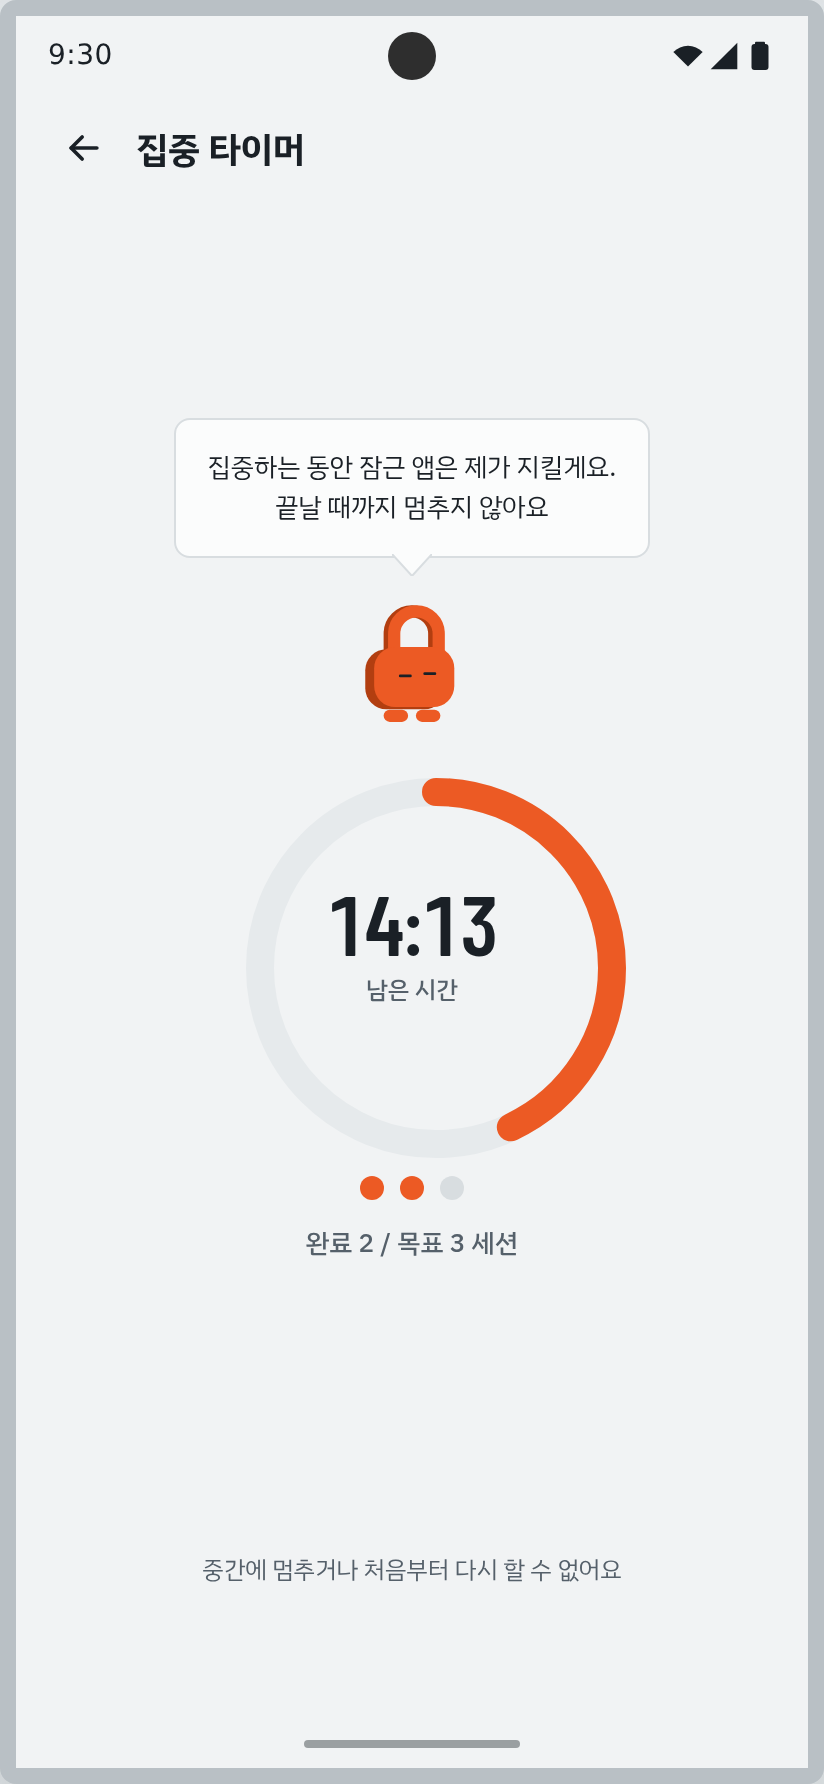
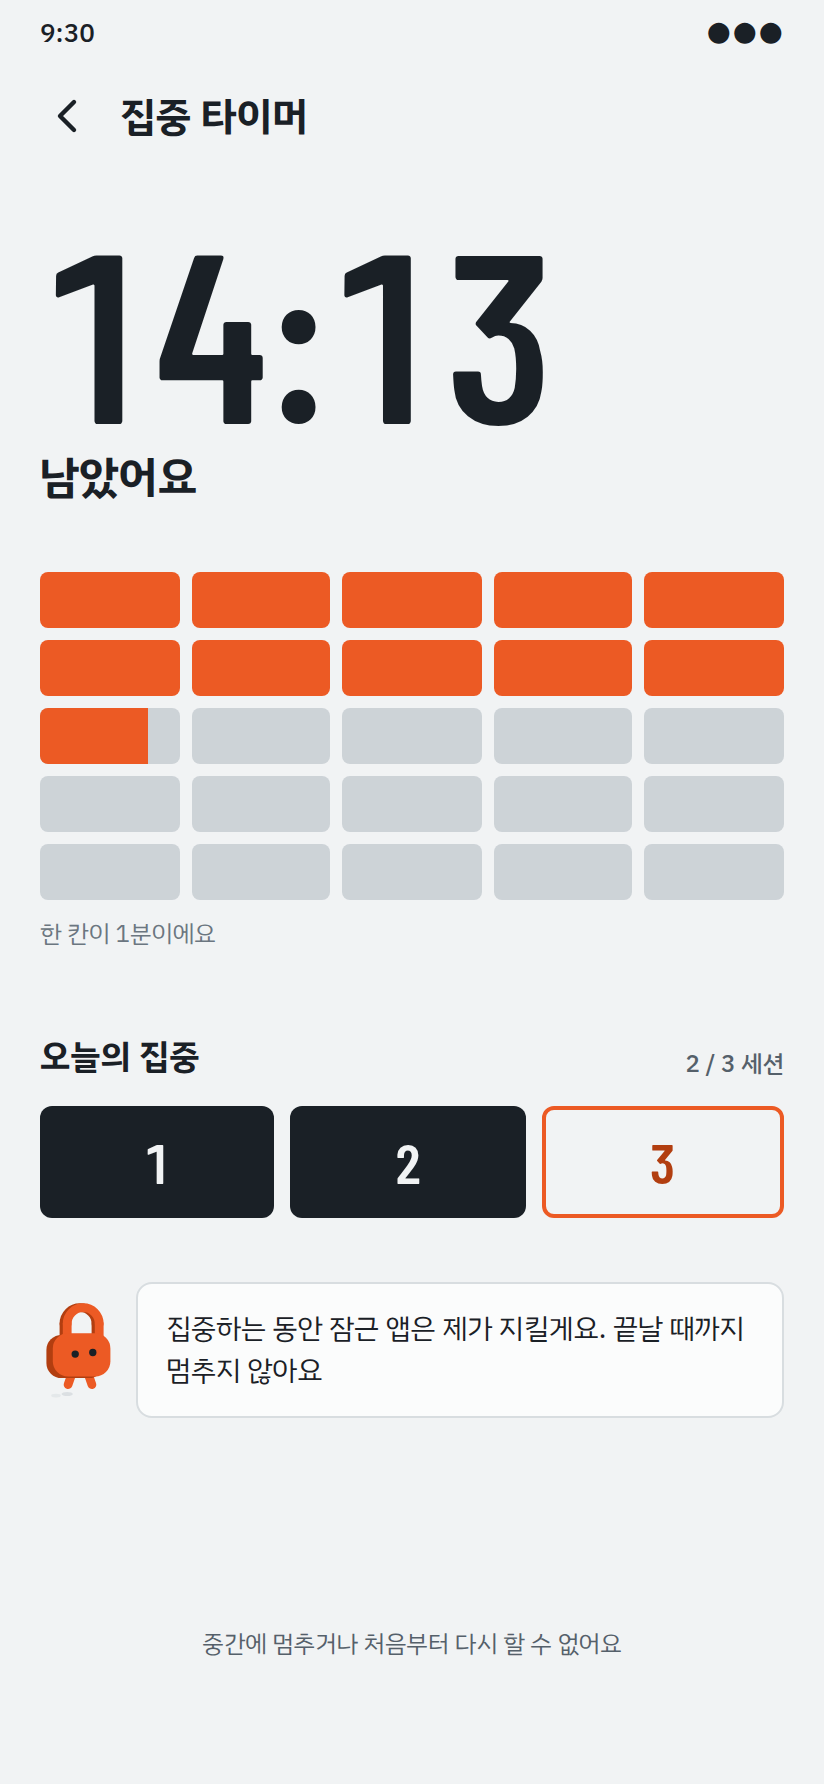
MinuteGrid 높이 계산 컴파일 오류 수정, 잠금·집중 타이머 사진과 문서 갱신
Claude-Session: https://claude.ai/code/session_01TfDVSB28YoT3k36WsBEoLF

diff --git a/app/src/main/java/com/steplock/app/ui/components/MinuteGrid.kt b/app/src/main/java/com/steplock/app/ui/components/MinuteGrid.kt
@@ -60,7 +60,7 @@ fun MinuteGrid(
     }
 }
 
-private val GRID_HEIGHT = 5 * 28.dp + 4 * 6.dp
+private val GRID_HEIGHT = 28.dp * 5 + 6.dp * 4
 
 @Preview(widthDp = 372)
 @Composable

diff --git a/README.md b/README.md
@@ -23,6 +23,7 @@
 <p align="center">
   <img src="docs/screens/09-app-picker.png" width="22%" alt="잠글 앱 고르기" />
   <img src="docs/screens/06-pomodoro.png" width="22%" alt="집중 타이머" />
+  <img src="docs/screens/16-lock-focus.png" width="22%" alt="집중 중 잠금 화면" />
 </p>
 
 <p align="center"><sub>412×892 프레임 · 구현과 같은 OKLCH 토큰·간격·아이콘으로 렌더한 이미지입니다 (실기기 캡처가 아닙니다).<br>앱 아이콘 자리는 첫 글자 자리표시자이며, 실제 앱은 기기에 깔린 각 앱의 아이콘을 보여 줍니다</sub></p>
@@ -41,7 +42,7 @@
 | 자리 | 스텝이의 말 |
 | --- | --- |
 | 첫 실행 튜토리얼 | "안녕하세요, 저는 스텝이예요" — 네 장에 나눠 앱 쓰는 법을 알려 줍니다 |
-| 잠금 화면 | 옆에서 말풍선으로 "2,760보만 더 걸으면 열려요" |
+| 잠금 화면 | 등산로 위 지금 자리에 서서 "2,760보 — 더 걸으면 열려요" |
 | 집중 타이머 | "집중하는 동안 잠근 앱은 제가 지킬게요. 끝날 때까지 멈추지 않아요" (도는 중·쉬는 중·목표 달성·잠근 앱 없음마다 다름) |
 | 알림 | 머리글에 "스텝이"가 붙고, "해냈어요! 오늘은 열어 둘게요", 저녁 7~10시 "저녁 산책 같이 가요?" |
 | 빈 화면 | "지킬 앱을 골라 주세요 — 고른 앱이 열리면 제가 막아 둘게요" |
@@ -150,6 +151,26 @@
 막은 횟수는 감시 서비스가 잠금 화면을 띄울 때 앱별로 기록합니다. 기기에만 두고 날짜가 바뀌면
 새로 셉니다. 같은 앱에 머무는 동안은 잠금을 다시 띄우지 않으므로 "그 앱을 열려고 한 횟수"에
 가깝습니다.
+
+### 잠금 화면 · 집중 타이머
+
+<p align="center">
+  <img src="docs/screens/05-lock.png" width="23%" alt="잠금 화면 — 앱 이름과 등산로" />
+  <img src="docs/screens/16-lock-focus.png" width="23%" alt="집중 중 잠금 화면 — 남은 시간과 25칸" />
+  <img src="docs/screens/06-pomodoro.png" width="23%" alt="집중 타이머 — 큰 남은 시간, 25칸, 세션 번호판" />
+  <img src="docs/screens/17-pomodoro-dark.png" width="23%" alt="집중 타이머 다크 모드" />
+</p>
+
+- **잠금 화면은 홈의 등산로를 그대로 가져옵니다.** 제목은 막힌 앱 이름 하나("YouTube"), 그 아래 "잠겨 있어요 ·
+  오늘 47분 썼어요". 가운데는 홈과 같은 길 위에 스텝이가 서 있고, 왼쪽에 "2,760보 / 더 걸으면 열려요".
+  링 + 말풍선 + 칩을 가운데 쌓던 구조를 없애서, 잠금 화면을 봐도 "홈에서 보던 그 길의 어디쯤"으로 읽힙니다.
+  길로 보여 준 조건 외의 조건은 아래 칩으로만, 주 동작은 "알겠어요, 닫기" 하나입니다.
+- **집중 중에 막히면 길 대신 남은 시간.** 112sp 숫자와 25칸(한 칸 = 1분)만 보여 주고, 임시 허용 링크는
+  없앱니다 — 세션은 멈출 수 없으니 왜 없는지만 한 줄로 적습니다.
+- **집중 타이머는 링을 버리고 칸으로.** 줄어드는 링은 각도로 어림해야 하지만 5×5 칸은 셀 수 있습니다 —
+  한 줄이 5분이라 "두 줄 반 남았다"가 바로 보입니다. 위에서부터 남은 시간(120sp) → 이번 세션 25칸 →
+  오늘의 세션 번호판(끝남 흑연 · 지금 주황 테두리 · 남음 흐린 테두리) → 스텝이의 한마디 순서로,
+  카드 없이 여백만으로 나눴습니다.
 
 ---
 
@@ -378,7 +399,6 @@ Plex로 작게 그립니다(`numeralText`). Plex Sans KR은 획 끝이 반듯하
   ([`SlIcons.kt`](app/src/main/java/com/steplock/app/ui/components/SlIcons.kt)).
 - 문구는 동작을 알 수 있게 씁니다 — "손쉬운 사용 권한 허용하기", "알겠어요, 닫기",
   "로그인 없이 둘러보기".
-- 한국어 조사 처리: 잠금 화면 제목은 받침에 따라 은/는을 붙입니다("유튜브는", "틱톡은").
 
 ---
 
